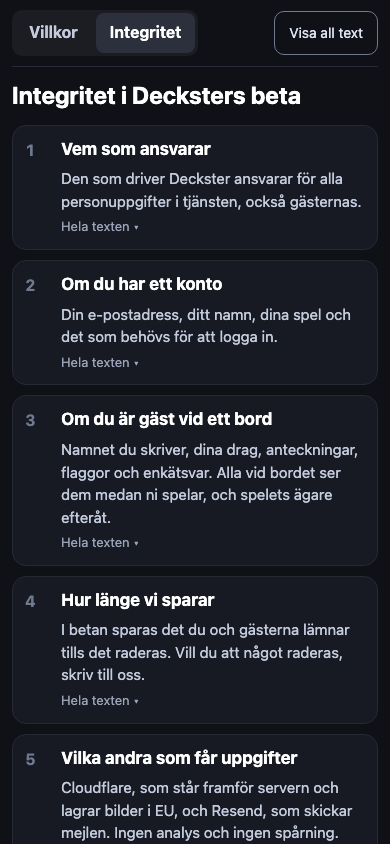
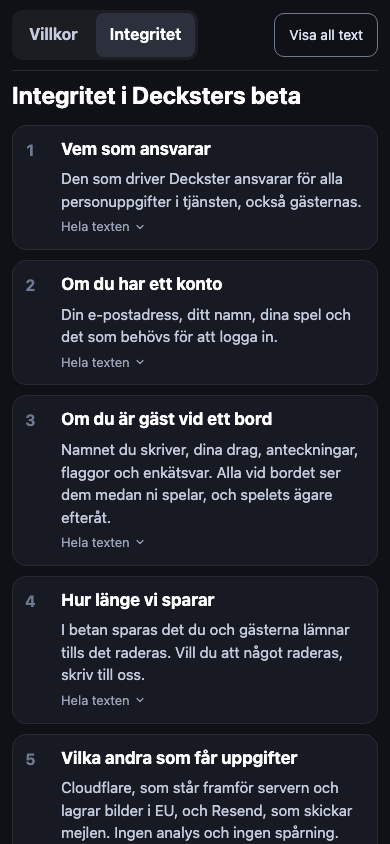
Betavillkoren: raden en fingertopp hög, telefonens rad i kortets hörn, och specarna går genom steget (#1272)
Raden «Villkor · Integritet» har 44 px höga mål utan att prickarna flyttar
sig; på anslutningssidan står den i kortets övre hörn, utanför flödet, så
att väljaren fortfarande är en telefon hög. Öppningen på /villkor ritas
med glyfen, 'villkor' är ett ord i rumskodernas spärrlista, och
claim-resorna godkänner villkoren efter namnet.

diff --git a/packages/web/src/editor/ProjectClient.ts b/packages/web/src/editor/ProjectClient.ts
@@ -956,7 +956,7 @@ export class ProjectClient {
   // language she was working in and then stays put.
   async importRules(rules: RuleDoc, file: string, t: T = swedish): Promise<void> {
     this.mustBeAbleToEdit(t)
-    await this.termsCleared()
+    if (this.termsHeld) await this.termsCleared()
     // The one edit from the editor that writes the whole book: what the file makes of it is the book.
     this.edit({ v: 'setRules', rules: { ...rules, source: { file, at: new Date().toISOString() } } })
     const saved = await this.save()
@@ -1070,7 +1070,7 @@ export class ProjectClient {
 
   private async beginIcon(svg: string, wanted: string, credit: ProjectCredit | undefined, t: T, gesture?: string): Promise<{ name: string; stored: Promise<void> }> {
     this.mustBeAbleToEdit(t)
-    await this.termsCleared()
+    if (this.termsHeld) await this.termsCleared()
     const file = svgBytes({ svg })
     // The reference first, off the bytes themselves (#310). It is the name the service will give
     // them, so the question the next line asks — does the game already have this symbol? — is
@@ -1281,7 +1281,7 @@ export class ProjectClient {
   // A licence is not in the file: only the designer knows it, and it is stated beside the family.
   async useFont(file: File, t: T = swedish): Promise<string> {
     this.mustBeAbleToEdit(t)
-    await this.termsCleared()
+    if (this.termsHeld) await this.termsCleared()
     // The reference first, off the bytes themselves (#339, as #310 did for the symbol): whether
     // the game already has this typeface is a question about a name, and the name is known here.
     const ref = await assetRefOfFile(file)
@@ -1335,7 +1335,7 @@ export class ProjectClient {
   // symbol (#344, L37).
   async useTheme(theme: Theme, t: T = swedish): Promise<void> {
     this.mustBeAbleToEdit(t)
-    await this.termsCleared()
+    if (this.termsHeld) await this.termsCleared()
     const wanted = themeFamilies(theme).filter((family) => !this.doc.fonts?.[family.family]?.asset)
     const files = await Promise.all(wanted.map(async (family) => ({ family, file: await catalogFile(family, t) })))
     const fetched = await Promise.all(files.map(async ({ family, file }) => ({ family, file, ref: await assetRefOfFile(file) })))
@@ -1402,7 +1402,7 @@ export class ProjectClient {
   // comes into the library under its file name instead of as a hash nobody named.
   async addPicture(file: File, t: T = swedish, onto?: { cardRef: string; field: string }): Promise<string> {
     this.mustBeAbleToEdit(t)
-    await this.termsCleared()
+    if (this.termsHeld) await this.termsCleared()
     // Before the bytes are even hashed: a file the gate is certain to refuse touches neither the
     // document nor the wire (#742). The refusal names the picture as a taken-back one does (L37),
     // because in a batch it is one line among several and has to say which file it is about —
@@ -1452,7 +1452,7 @@ export class ProjectClient {
   // arrive and a met one is said where the designer uploaded, rather than at the next save.
   async uploadAsset(file: Blob, kind: AssetKind, t: T = swedish): Promise<string> {
     this.mustBeAbleToEdit(t)
-    await this.termsCleared()
+    if (this.termsHeld) await this.termsCleared()
     await this.mustBeTakeable(file, kind, t)
     const res = await fetch(`${this.http}/assets?${new URLSearchParams({ project: this.id }).toString()}`, withCredentials({ method: 'POST', headers: { 'content-type': assetTypeDeclaring(kind) }, body: file }))
     if (res.status === 401) throw new Unauthorized()

diff --git a/packages/web/src/terms/terms-page.css b/packages/web/src/terms/terms-page.css
@@ -24,7 +24,7 @@
 /* The two halves and «Visa all text», held at the top while the page is read. */
 .byd-terms-parts { position: sticky; top: 0; z-index: 2; display: flex; flex-wrap: wrap; align-items: center; gap: 10px; padding: 10px 0; background: #0f1117; border-bottom: 1px solid var(--byd-terms-line); }
 .byd-terms-parts nav { display: inline-flex; gap: 4px; padding: 3px; border-radius: 10px; background: #1b1d23; }
-.byd-terms-parts nav a { display: inline-flex; align-items: center; min-height: 40px; padding: 0 14px; border-radius: 8px; color: #c3cbdd; font-size: 16px; font-weight: 650; text-decoration: none; }
+.byd-terms-parts nav a { display: inline-flex; align-items: center; min-height: 44px; padding: 0 14px; border-radius: 8px; color: #c3cbdd; font-size: 16px; font-weight: 650; text-decoration: none; }
 .byd-terms-parts nav a:hover, .byd-terms-parts nav a[aria-current] { background: #2b303c; color: #fff; }
 .byd-terms-parts button { margin-left: auto; min-height: 44px; padding: 0 14px; border: 1px solid #6f7a90; border-radius: 10px; background: transparent; color: #dce3f2; font: inherit; font-size: 14px; cursor: pointer; }
 
@@ -39,9 +39,9 @@
 .byd-terms-nr { color: #6f7a90; font-weight: 700; font-variant-numeric: tabular-nums; }
 .byd-terms-row b { color: #fff; font-size: 17px; line-height: 1.4; }
 .byd-terms-ks { grid-column: 2; color: #c3cbdd; font-size: 15px; line-height: 1.5; }
-.byd-terms-open { grid-column: 3; grid-row: 1; color: #9aa3b8; font-size: 13px; white-space: nowrap; }
-.byd-terms-open::after { content: ' ▾' / ''; }
-.byd-terms-row[open] .byd-terms-open::after { content: ' ▴' / ''; }
+.byd-terms-open { grid-column: 3; grid-row: 1; display: inline-flex; align-items: center; gap: 4px; align-self: start; color: #9aa3b8; font-size: 13px; white-space: nowrap; }
+.byd-terms-open .byd-glyph { width: 12px; height: 12px; }
+.byd-terms-row[open] .byd-terms-open .byd-glyph { transform: rotate(180deg); }
 .byd-terms-full { display: grid; gap: 10px; padding: 0 16px 16px 56px; color: #dfe4ef; font-size: 15px; }
 .byd-terms-full p { margin: 0; }
 .byd-terms-full ul { margin: 0; padding-left: 22px; display: grid; gap: 4px; }

diff --git a/packages/web/src/join/join.css b/packages/web/src/join/join.css
@@ -304,6 +304,10 @@
 .byd-join { position: relative; }
 .byd-join-home { position: absolute; top: 0; right: 8px; display: inline-flex; align-items: center; gap: 6px; min-height: 44px; padding: 0 12px; color: #9aa3b8; font-size: 13px; text-decoration: none; }
 .byd-join-home:hover { color: #fff; text-decoration: underline; text-underline-offset: 3px; }
+/* «Villkor · Integritet» (#757, #1272) in the other top corner, out of the flow as the way home is. */
+.byd-join-trust { position: absolute; top: 0; left: 12px; display: flex; align-items: center; margin: 0; color: #9aa3b8; font-size: 13px; white-space: pre; }
+.byd-join-trust a { display: inline-flex; align-items: center; min-height: 44px; padding: 0 5px; margin: 0 -5px; color: inherit; text-underline-offset: 3px; }
+.byd-join-trust a:hover { color: #fff; }
 
 /* A laptop opening the address sees a card and not a phone stretched across the screen (#675): the
    page as one column of 520 px, in the login card's form, on the account's darker ground. The card
@@ -318,6 +322,7 @@
   .byd-join-page > :not(.byd-join-code) > header { text-align: center; }
   /* On the card the way home stands on the heading's first line rather than on the card's edge. */
   .byd-join-home { top: 18px; right: 20px; }
+  .byd-join-trust { top: 18px; left: 20px; }
 }
 /* On a laptop the page has one choice (L77, #1130): «Gå med», and under it the phone's way and only
    watching as lines of text. They are buttons, since each buys a seat or a look before it goes
@@ -331,6 +336,3 @@
 }
 .byd-join form .byd-join-link:hover { color: #fff; }
 .byd-join form .byd-join-link:disabled { color: #8a93a8; text-decoration: none; cursor: default; }
-/* «Villkor · Integritet» where a guest sits down and where she saves (#757, #1272): the row's quiet ink. */
-.byd-trust { margin: 0; color: #9aa3b8; font-size: 13px; line-height: 1.5; }
-.byd-trust a { color: inherit; text-underline-offset: 3px; }

diff --git a/packages/web/src/join/JoinPage.tsx b/packages/web/src/join/JoinPage.tsx
@@ -265,6 +265,7 @@ export function JoinPage({ onSit = (url) => location.assign(url), onOpen = (url)
     <div className="byd-join-page">
       <main className={`byd-join${live.stale ? ' byd-status-stale' : ''}`} data-page="join" {...(live.stale ? { inert: true } : {})}>
       <HomeWay href={links.home} />
+      <TrustWay />
       <header>
         <span>{t('join.into')}</span>
         {/* The game's name, when the table has one (#675): it is what the guest came to play, and
@@ -350,10 +351,6 @@ export function JoinPage({ onSit = (url) => location.assign(url), onOpen = (url)
         </label>
         {/* What a guest leaves behind, said where she sits down (#757): tied to the table, not to her. */}
         <p className="byd-muted">{t('guest.kept')}</p>
-        {/* The row's first two (#757, #1272): the terms and the privacy text, on a page of their own. */}
-        <p className="byd-muted byd-trust">
-          <a href="/villkor">{t('trust.terms')}</a> · <a href="/villkor#integritet">{t('trust.privacy')}</a>
-        </p>
         {/* Villkoret, sagt en gång per skärm och vid fältet — inte en gång per knapp. Det föds
             efter trycket, så det föds som en levande region: en `alert` som kommer till
             dokumentet läses upp när den kommer, och fältet pekar på den. */}
@@ -391,6 +388,17 @@ function HomeWay({ href = '/' }: { href?: string | undefined }) {
       <ArrowGlyph to="left" />
       {t('status.act.home.start')}
     </a>
+  )
+}
+
+// The row's first two where a guest sits down (#757, #1272): the terms and the privacy text, in the
+// card's other top corner and out of its flow, for the same reason as the way home.
+function TrustWay() {
+  const t = useT()
+  return (
+    <p className="byd-join-trust">
+      <a href="/villkor">{t('trust.terms')}</a> · <a href="/villkor#integritet">{t('trust.privacy')}</a>
+    </p>
   )
 }
 

diff --git a/packages/e2e/test/terms.spec.ts b/packages/e2e/test/terms.spec.ts
@@ -96,7 +96,7 @@ test('«Inte nu» leaves Mina spel as it is, asks on a press, and the server ref
   await next.close()
 })
 
-test('an account from before the terms meets them in a band, first in the queue, and the passkey follows', async ({ page }) => {
+test('an account from before the terms meets them in a band, first in the queue, and every way opens once accepted', async ({ page }) => {
   await page.setViewportSize(DESK.viewport)
   // Logged in behind the page's back, with its name given, as an account that was there before the terms.
   const email = await logIn(page.request, `bo+${crypto.randomUUID().slice(0, 8)}@example.com`, { terms: false })
@@ -115,8 +115,6 @@ test('an account from before the terms meets them in a band, first in the queue,
   await expect(dialog).toHaveCount(0)
   await expect(band).toHaveCount(0)
   await expect(page.getByText('Villkoren inte godkända')).toHaveCount(0)
-  // One band at a time: the passkey's comes now that the terms' has been answered (L78, #1254).
-  await expect(page.getByRole('region', { name: 'Passkey' })).toBeVisible()
   expect(await (await page.request.get('/auth/me')).json()).toMatchObject({ email, terms: { due: false } })
   await makeProject(page.request, { name: 'Hamnen' })
 })

diff --git a/packages/web/src/account/account.css b/packages/web/src/account/account.css
@@ -287,6 +287,10 @@ input.byd-code-field { font: 700 22px/1 ui-monospace, Menlo, monospace; letter-s
    it is in the sheet the first frame blocks on, which has no room to spare (felt-font.spec.ts). */
 .byd-about { margin-top: 24px; text-align: center; font-size: 12px; }
 .byd-about a { color: inherit; }
+/* Every link on the row is a fingertip wide and tall (UX-KONTROLLER: träffytor), the terms' too (#1272). */
+.byd-about[data-about] { display: flex; flex-wrap: wrap; justify-content: center; align-items: center; white-space: pre; }
+/* The padding makes the target and the margin gives it back, so the dots stand where text puts them. */
+.byd-about a { display: inline-flex; align-items: center; min-height: 44px; padding: 0 5px; margin: 0 -5px; }
 /* Passkeys (#1180, beslut A). On the login card: «eller» between two rules, and the passkey's button
    under the address, the card's second way in, drawn as its outline. */
 .byd-login-or { display: grid; grid-template-columns: 1fr auto 1fr; align-items: center; gap: 10px; margin: 0; color: #9aa3b8; font-size: 13px; }

diff --git a/packages/web/src/player/player.css b/packages/web/src/player/player.css
@@ -413,3 +413,7 @@ html:has(.byd-player) { background: #14161c; }
    the same three stand in its own head. */
 .byd-player > header .byd-undo, .byd-player > header .byd-flag, .byd-player > header .byd-exit { gap: 0; padding: 0; width: 44px; }
 .byd-player > header .byd-undo .byd-glyph, .byd-player > header .byd-flag .byd-glyph, .byd-player > header .byd-exit .byd-glyph { width: 18px; height: 18px; }
+/* «Villkor · Integritet» where a guest saves what she left (#757, #1272): in the thanks' own ink, and
+   each a fingertip wide and tall. */
+.byd-trust { display: flex; flex-wrap: wrap; justify-content: center; align-items: center; margin: 0; white-space: pre; }
+.byd-trust a { display: inline-flex; align-items: center; min-height: 44px; padding: 0 5px; margin: 0 -5px; color: inherit; text-underline-offset: 3px; }

diff --git a/packages/e2e/test/account-way-back.spec.ts b/packages/e2e/test/account-way-back.spec.ts
@@ -32,8 +32,10 @@ test('saving after the survey comes back to the phone, and Back lands on the pag
   await save.click()
   await page.getByLabel('Email').fill(`e2e-${crypto.randomUUID()}@example.com`)
   await page.getByRole('button', { name: 'Send sign-in link' }).click()
-  // A first login is asked what the others should call it (#1254); the step replaces itself too.
+  // A first login is asked what the others should call it (#1254), then the terms (#1272): the same
+  // steps as any new account, and they replace themselves too.
   await page.getByRole('button', { name: 'Skip' }).click()
+  await page.getByRole('button', { name: 'Accept and continue' }).click()
 
   // Back on the phone, on the thanks, which say it is saved.
   await expect(page.getByText('Saved to your account.')).toBeVisible()

diff --git a/packages/e2e/test/guest-address.spec.ts b/packages/e2e/test/guest-address.spec.ts
@@ -79,8 +79,10 @@ async function saveAndLogIn(page: Page): Promise<void> {
   await page.getByRole('link', { name: 'Save to your account' }).click()
   await page.getByLabel('Email').fill(`e2e-${crypto.randomUUID()}@example.com`)
   await page.getByRole('button', { name: 'Send sign-in link' }).click()
-  // A first login is asked its name (#1254); the step carries the fragment on with the claim.
+  // A first login is asked its name (#1254) and the terms (#1272); the steps carry the fragment on
+  // with the claim.
   await page.getByRole('button', { name: 'Skip' }).click()
+  await page.getByRole('button', { name: 'Accept and continue' }).click()
   await expect(page.getByText('Saved to your account.')).toBeVisible()
 }
 

diff --git a/packages/web/src/terms/TermsPage.tsx b/packages/web/src/terms/TermsPage.tsx
@@ -1,6 +1,6 @@
 import { useEffect, useMemo, useState } from 'react'
 import { DecksterMark } from '../brand/DecksterMark.js'
-import { ArrowGlyph } from '../glyphs.js'
+import { ArrowGlyph, ChevronGlyph } from '../glyphs.js'
 import { useLang, useT } from '../i18n/index.js'
 import { usePageTitle } from '../status/DocumentTitle.js'
 import { Inline } from './Inline.js'
@@ -140,6 +140,7 @@ function Row({ open, n, section, href, full }: { open: boolean; n: number; secti
         <Head n={n} section={section} href={href} />
         <span className="byd-terms-open" aria-hidden="true">
           {full}
+          <ChevronGlyph to="down" />
         </span>
       </summary>
       <div className="byd-terms-full">

diff --git a/packages/protocol/src/rooms.ts b/packages/protocol/src/rooms.ts
@@ -20,7 +20,7 @@ export const ROUTE_WORDS: readonly string[] = [
   // The server's (packages/server/src).
   'assets', 'auth', 'faces', 'guests', 'health', 'invites', 'me', 'projects', 'rooms', 'sessions', 'terms',
   // The app's pages (`fetchPage` in packages/web/src/App.tsx).
-  'claim', 'editor', 'join', 'login', 'new', 'observe', 'online', 'play', 'print-package', 'profile', 'survey', 'table',
+  'claim', 'editor', 'join', 'login', 'new', 'observe', 'online', 'play', 'print-package', 'profile', 'survey', 'table', 'villkor',
 ]
 
 // Whether a code would read as one of the app's own addresses, in whatever case it is typed.

diff --git a/packages/web/src/player/Survey.tsx b/packages/web/src/player/Survey.tsx
@@ -52,7 +52,7 @@ export function Survey({ who, version, onSubmit, saveUrl, remember, rulebook, sa
           {!saved && saveUrl && <p className="byd-muted">{t('guest.kept')}</p>}
           {/* The row's first two (#757, #1272), where she saves what she left. */}
           {!saved && saveUrl && (
-            <p className="byd-muted byd-trust">
+            <p className="byd-trust">
               <a href="/villkor">{t('trust.terms')}</a> · <a href="/villkor#integritet">{t('trust.privacy')}</a>
             </p>
           )}
